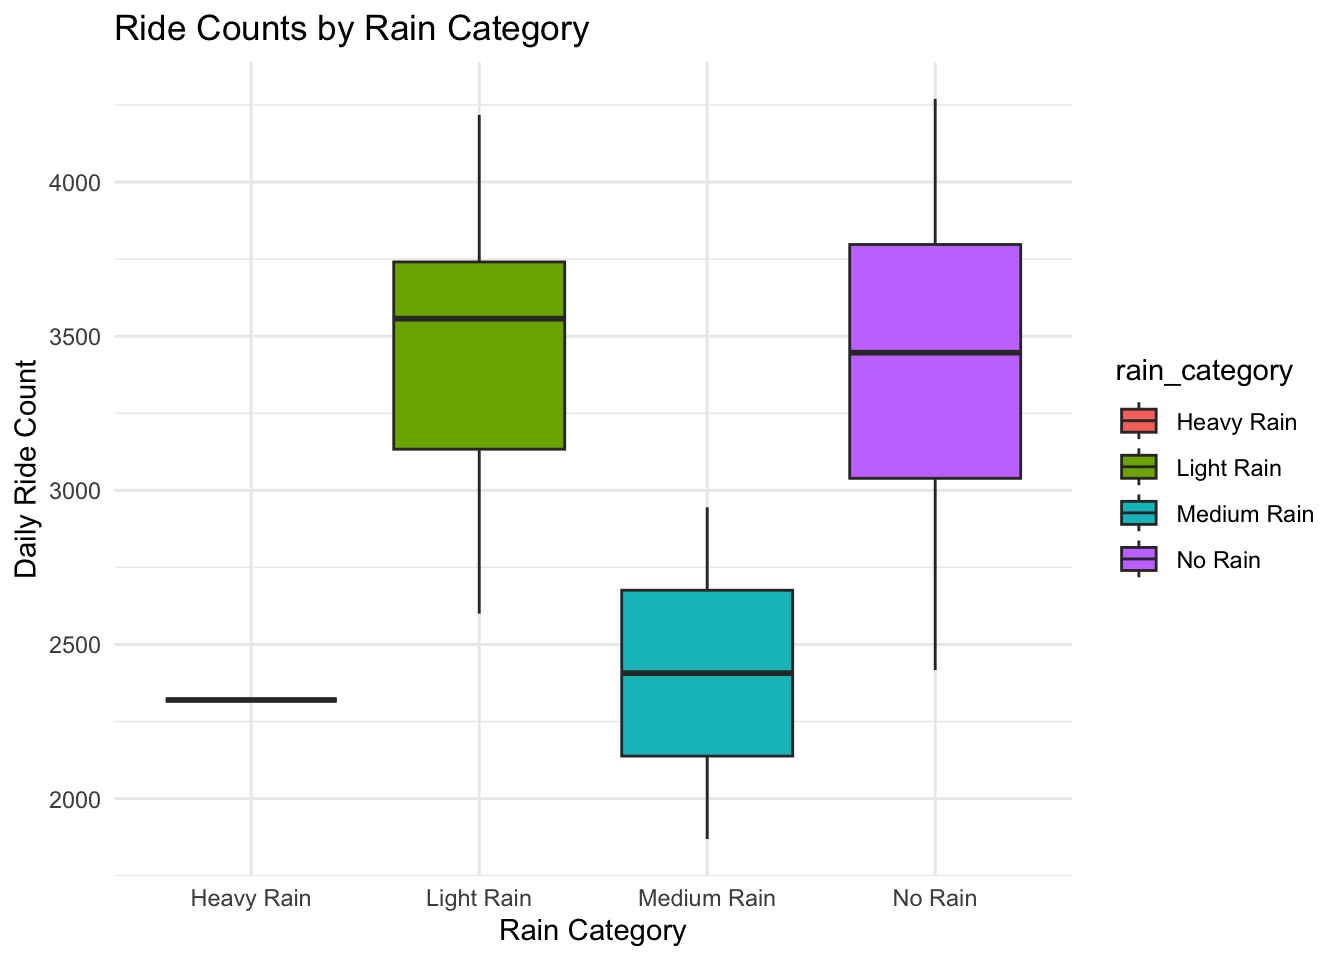
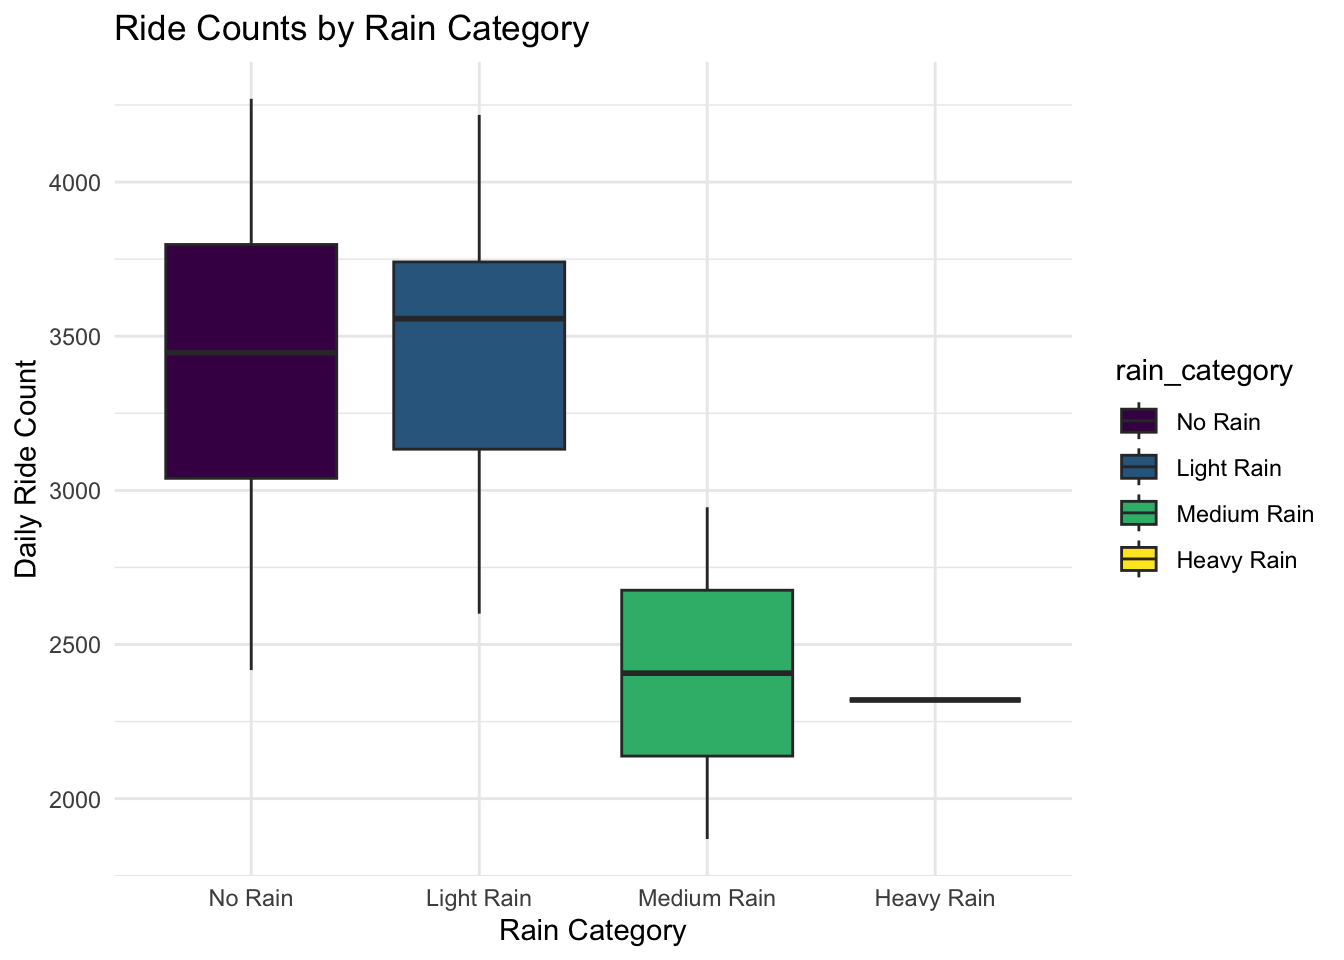
Eda finalize

diff --git a/EDA.html b/EDA.html
@@ -486,6 +486,13 @@ div.tocify {
     Proposal
   </a>
 </li>
+<li>
+  <a href="report.html">
+    <span class="fa fa-file-text-o"></span>
+     
+    Final Report
+  </a>
+</li>
       </ul>
       <ul class="nav navbar-nav navbar-right">
         <li>
@@ -1055,16 +1062,20 @@ temperatures.</p></li>
 </div>
 <div id="ride-count-vs-rain-category" class="section level2">
 <h2>7.2 Ride Count vs Rain Category</h2>
-<div class="sourceCode" id="cb10"><pre class="sourceCode r"><code class="sourceCode r"><span id="cb10-1"><a href="#cb10-1" tabindex="-1"></a>p_rain <span class="ot">&lt;-</span> bike <span class="sc">%&gt;%</span></span>
-<span id="cb10-2"><a href="#cb10-2" tabindex="-1"></a>  <span class="fu">group_by</span>(start_date, rain_category) <span class="sc">%&gt;%</span></span>
-<span id="cb10-3"><a href="#cb10-3" tabindex="-1"></a>  <span class="fu">summarise</span>(<span class="at">rides =</span> <span class="fu">n</span>(), <span class="at">.groups =</span> <span class="st">&quot;drop&quot;</span>) <span class="sc">%&gt;%</span></span>
-<span id="cb10-4"><a href="#cb10-4" tabindex="-1"></a>  <span class="fu">ggplot</span>(<span class="fu">aes</span>(rain_category, rides, <span class="at">fill =</span> rain_category)) <span class="sc">+</span></span>
-<span id="cb10-5"><a href="#cb10-5" tabindex="-1"></a>  <span class="fu">geom_boxplot</span>() <span class="sc">+</span></span>
-<span id="cb10-6"><a href="#cb10-6" tabindex="-1"></a>  <span class="fu">labs</span>(<span class="at">title =</span> <span class="st">&quot;Ride Counts by Rain Category&quot;</span>,</span>
-<span id="cb10-7"><a href="#cb10-7" tabindex="-1"></a>       <span class="at">x =</span> <span class="st">&quot;Rain Category&quot;</span>, <span class="at">y =</span> <span class="st">&quot;Daily Ride Count&quot;</span>) <span class="sc">+</span></span>
-<span id="cb10-8"><a href="#cb10-8" tabindex="-1"></a>  <span class="fu">theme_minimal</span>()</span>
-<span id="cb10-9"><a href="#cb10-9" tabindex="-1"></a></span>
-<span id="cb10-10"><a href="#cb10-10" tabindex="-1"></a>p_rain</span></code></pre></div>
+<div class="sourceCode" id="cb10"><pre class="sourceCode r"><code class="sourceCode r"><span id="cb10-1"><a href="#cb10-1" tabindex="-1"></a>bike <span class="ot">&lt;-</span> bike <span class="sc">%&gt;%</span></span>
+<span id="cb10-2"><a href="#cb10-2" tabindex="-1"></a>  <span class="fu">mutate</span>(<span class="at">rain_category =</span> <span class="fu">factor</span>(rain_category,</span>
+<span id="cb10-3"><a href="#cb10-3" tabindex="-1"></a>                                <span class="at">levels =</span> <span class="fu">c</span>(<span class="st">&quot;No Rain&quot;</span>, <span class="st">&quot;Light Rain&quot;</span>, <span class="st">&quot;Medium Rain&quot;</span>, <span class="st">&quot;Heavy Rain&quot;</span>),</span>
+<span id="cb10-4"><a href="#cb10-4" tabindex="-1"></a>                                <span class="at">ordered =</span> <span class="cn">TRUE</span>))</span>
+<span id="cb10-5"><a href="#cb10-5" tabindex="-1"></a>p_rain <span class="ot">&lt;-</span> bike <span class="sc">%&gt;%</span></span>
+<span id="cb10-6"><a href="#cb10-6" tabindex="-1"></a>  <span class="fu">group_by</span>(start_date, rain_category) <span class="sc">%&gt;%</span></span>
+<span id="cb10-7"><a href="#cb10-7" tabindex="-1"></a>  <span class="fu">summarise</span>(<span class="at">rides =</span> <span class="fu">n</span>(), <span class="at">.groups =</span> <span class="st">&quot;drop&quot;</span>) <span class="sc">%&gt;%</span></span>
+<span id="cb10-8"><a href="#cb10-8" tabindex="-1"></a>  <span class="fu">ggplot</span>(<span class="fu">aes</span>(rain_category, rides, <span class="at">fill =</span> rain_category)) <span class="sc">+</span></span>
+<span id="cb10-9"><a href="#cb10-9" tabindex="-1"></a>  <span class="fu">geom_boxplot</span>() <span class="sc">+</span></span>
+<span id="cb10-10"><a href="#cb10-10" tabindex="-1"></a>  <span class="fu">labs</span>(<span class="at">title =</span> <span class="st">&quot;Ride Counts by Rain Category&quot;</span>,</span>
+<span id="cb10-11"><a href="#cb10-11" tabindex="-1"></a>       <span class="at">x =</span> <span class="st">&quot;Rain Category&quot;</span>, <span class="at">y =</span> <span class="st">&quot;Daily Ride Count&quot;</span>) <span class="sc">+</span></span>
+<span id="cb10-12"><a href="#cb10-12" tabindex="-1"></a>  <span class="fu">theme_minimal</span>()</span>
+<span id="cb10-13"><a href="#cb10-13" tabindex="-1"></a></span>
+<span id="cb10-14"><a href="#cb10-14" tabindex="-1"></a>p_rain</span></code></pre></div>
 <p><img src="EDA_files/figure-html/unnamed-chunk-12-1.png" width="672" /></p>
 <p>This boxplot examines daily ride counts across four rain categories
 (Heavy Rain, Light Rain, Medium Rain, No Rain).</p>
@@ -1135,34 +1146,28 @@ the ride data. After that, we fit an ARIMA model to predict future ride
 volume.</p>
 <div id="model-fitting-and-prediction" class="section level2">
 <h2>9.1 Model Fitting and Prediction</h2>
-<div class="sourceCode" id="cb14"><pre class="sourceCode r"><code class="sourceCode r"><span id="cb14-1"><a href="#cb14-1" tabindex="-1"></a><span class="fu">library</span>(tseries)</span></code></pre></div>
-<pre><code>## 
-##     &#39;tseries&#39; version: 0.10-58
-## 
-##     &#39;tseries&#39; is a package for time series analysis and computational finance.
-## 
-##     See &#39;library(help=&quot;tseries&quot;)&#39; for details.</code></pre>
-<div class="sourceCode" id="cb16"><pre class="sourceCode r"><code class="sourceCode r"><span id="cb16-1"><a href="#cb16-1" tabindex="-1"></a>daily_rides <span class="ot">&lt;-</span> bike <span class="sc">%&gt;%</span></span>
-<span id="cb16-2"><a href="#cb16-2" tabindex="-1"></a>  <span class="fu">group_by</span>(start_date) <span class="sc">%&gt;%</span></span>
-<span id="cb16-3"><a href="#cb16-3" tabindex="-1"></a>  <span class="fu">summarise</span>(<span class="at">total_rides =</span> <span class="fu">n</span>(), <span class="at">.groups =</span> <span class="st">&quot;drop&quot;</span>)</span>
-<span id="cb16-4"><a href="#cb16-4" tabindex="-1"></a></span>
-<span id="cb16-5"><a href="#cb16-5" tabindex="-1"></a><span class="fu">library</span>(tsibble)</span>
-<span id="cb16-6"><a href="#cb16-6" tabindex="-1"></a><span class="fu">library</span>(fable)</span>
-<span id="cb16-7"><a href="#cb16-7" tabindex="-1"></a></span>
-<span id="cb16-8"><a href="#cb16-8" tabindex="-1"></a>ts_data <span class="ot">&lt;-</span> daily_rides <span class="sc">%&gt;%</span></span>
-<span id="cb16-9"><a href="#cb16-9" tabindex="-1"></a>  <span class="fu">as_tsibble</span>(<span class="at">index =</span> start_date)</span>
-<span id="cb16-10"><a href="#cb16-10" tabindex="-1"></a></span>
-<span id="cb16-11"><a href="#cb16-11" tabindex="-1"></a><span class="fu">autoplot</span>(ts_data, total_rides) <span class="sc">+</span></span>
-<span id="cb16-12"><a href="#cb16-12" tabindex="-1"></a>  <span class="fu">labs</span>(<span class="at">title =</span> <span class="st">&quot;Daily Ride Counts&quot;</span>,</span>
-<span id="cb16-13"><a href="#cb16-13" tabindex="-1"></a>       <span class="at">x =</span> <span class="st">&quot;Date&quot;</span>,</span>
-<span id="cb16-14"><a href="#cb16-14" tabindex="-1"></a>       <span class="at">y =</span> <span class="st">&quot;Number of Rides&quot;</span>) <span class="sc">+</span></span>
-<span id="cb16-15"><a href="#cb16-15" tabindex="-1"></a>  <span class="fu">geom_line</span>(<span class="at">linewidth =</span> <span class="fl">1.2</span>, <span class="at">color =</span> <span class="st">&quot;skyblue&quot;</span>) <span class="sc">+</span></span>
-<span id="cb16-16"><a href="#cb16-16" tabindex="-1"></a>  <span class="fu">theme_minimal</span>() </span></code></pre></div>
+<div class="sourceCode" id="cb14"><pre class="sourceCode r"><code class="sourceCode r"><span id="cb14-1"><a href="#cb14-1" tabindex="-1"></a><span class="fu">library</span>(tseries)</span>
+<span id="cb14-2"><a href="#cb14-2" tabindex="-1"></a>daily_rides <span class="ot">&lt;-</span> bike <span class="sc">%&gt;%</span></span>
+<span id="cb14-3"><a href="#cb14-3" tabindex="-1"></a>  <span class="fu">group_by</span>(start_date) <span class="sc">%&gt;%</span></span>
+<span id="cb14-4"><a href="#cb14-4" tabindex="-1"></a>  <span class="fu">summarise</span>(<span class="at">total_rides =</span> <span class="fu">n</span>(), <span class="at">.groups =</span> <span class="st">&quot;drop&quot;</span>)</span>
+<span id="cb14-5"><a href="#cb14-5" tabindex="-1"></a></span>
+<span id="cb14-6"><a href="#cb14-6" tabindex="-1"></a><span class="fu">library</span>(tsibble)</span>
+<span id="cb14-7"><a href="#cb14-7" tabindex="-1"></a><span class="fu">library</span>(fable)</span>
+<span id="cb14-8"><a href="#cb14-8" tabindex="-1"></a></span>
+<span id="cb14-9"><a href="#cb14-9" tabindex="-1"></a>ts_data <span class="ot">&lt;-</span> daily_rides <span class="sc">%&gt;%</span></span>
+<span id="cb14-10"><a href="#cb14-10" tabindex="-1"></a>  <span class="fu">as_tsibble</span>(<span class="at">index =</span> start_date)</span>
+<span id="cb14-11"><a href="#cb14-11" tabindex="-1"></a></span>
+<span id="cb14-12"><a href="#cb14-12" tabindex="-1"></a><span class="fu">autoplot</span>(ts_data, total_rides) <span class="sc">+</span></span>
+<span id="cb14-13"><a href="#cb14-13" tabindex="-1"></a>  <span class="fu">labs</span>(<span class="at">title =</span> <span class="st">&quot;Daily Ride Counts&quot;</span>,</span>
+<span id="cb14-14"><a href="#cb14-14" tabindex="-1"></a>       <span class="at">x =</span> <span class="st">&quot;Date&quot;</span>,</span>
+<span id="cb14-15"><a href="#cb14-15" tabindex="-1"></a>       <span class="at">y =</span> <span class="st">&quot;Number of Rides&quot;</span>) <span class="sc">+</span></span>
+<span id="cb14-16"><a href="#cb14-16" tabindex="-1"></a>  <span class="fu">geom_line</span>(<span class="at">linewidth =</span> <span class="fl">1.2</span>, <span class="at">color =</span> <span class="st">&quot;skyblue&quot;</span>) <span class="sc">+</span></span>
+<span id="cb14-17"><a href="#cb14-17" tabindex="-1"></a>  <span class="fu">theme_minimal</span>() </span></code></pre></div>
 <p><img src="EDA_files/figure-html/unnamed-chunk-15-1.png" width="672" /></p>
-<div class="sourceCode" id="cb17"><pre class="sourceCode r"><code class="sourceCode r"><span id="cb17-1"><a href="#cb17-1" tabindex="-1"></a>fit_arima <span class="ot">&lt;-</span> ts_data <span class="sc">%&gt;%</span></span>
-<span id="cb17-2"><a href="#cb17-2" tabindex="-1"></a>  <span class="fu">model</span>(<span class="fu">ARIMA</span>(total_rides))</span>
-<span id="cb17-3"><a href="#cb17-3" tabindex="-1"></a></span>
-<span id="cb17-4"><a href="#cb17-4" tabindex="-1"></a><span class="fu">report</span>(fit_arima)</span></code></pre></div>
+<div class="sourceCode" id="cb15"><pre class="sourceCode r"><code class="sourceCode r"><span id="cb15-1"><a href="#cb15-1" tabindex="-1"></a>fit_arima <span class="ot">&lt;-</span> ts_data <span class="sc">%&gt;%</span></span>
+<span id="cb15-2"><a href="#cb15-2" tabindex="-1"></a>  <span class="fu">model</span>(<span class="fu">ARIMA</span>(total_rides))</span>
+<span id="cb15-3"><a href="#cb15-3" tabindex="-1"></a></span>
+<span id="cb15-4"><a href="#cb15-4" tabindex="-1"></a><span class="fu">report</span>(fit_arima)</span></code></pre></div>
 <pre><code>## Series: total_rides 
 ## Model: ARIMA(0,1,1)(1,0,0)[7] 
 ## 
@@ -1173,30 +1178,47 @@ volume.</p>
 ## 
 ## sigma^2 estimated as 159701:  log likelihood=-214.82
 ## AIC=435.64   AICc=436.6   BIC=439.74</code></pre>
-<div class="sourceCode" id="cb19"><pre class="sourceCode r"><code class="sourceCode r"><span id="cb19-1"><a href="#cb19-1" tabindex="-1"></a>fc <span class="ot">&lt;-</span> fit_arima <span class="sc">%&gt;%</span> <span class="fu">forecast</span>(<span class="at">h =</span> <span class="dv">7</span>)</span>
-<span id="cb19-2"><a href="#cb19-2" tabindex="-1"></a></span>
-<span id="cb19-3"><a href="#cb19-3" tabindex="-1"></a><span class="fu">autoplot</span>(fc, ts_data) <span class="sc">+</span></span>
-<span id="cb19-4"><a href="#cb19-4" tabindex="-1"></a>  <span class="fu">labs</span>(<span class="at">title =</span> <span class="st">&quot;ARIMA Forecast of Daily Rides&quot;</span>,</span>
-<span id="cb19-5"><a href="#cb19-5" tabindex="-1"></a>       <span class="at">x =</span> <span class="st">&quot;Date&quot;</span>,</span>
-<span id="cb19-6"><a href="#cb19-6" tabindex="-1"></a>       <span class="at">y =</span> <span class="st">&quot;Number of Rides&quot;</span>) <span class="sc">+</span></span>
-<span id="cb19-7"><a href="#cb19-7" tabindex="-1"></a>  <span class="fu">theme_minimal</span>()</span></code></pre></div>
+<p>This ARIMA(0,1,1)(1,0,0)[7] model (a seasonal ARIMA with weekly
+seasonality, given the [7] parameter) provides a reasonable fit for the
+daily ride count time series, as reflected by the key metrics:</p>
+<ul>
+<li><p>The AIC (435.64) and BIC (439.74) are consistent with a
+parsimonious model that balances fit and complexity.</p></li>
+<li><p>The significant seasonal AR term (sar1 = 0.4685, s.e. = 0.2006)
+captures the weekly cyclicality in ride demand, which aligns with the
+visible fluctuations in the time series plot (e.g., recurring
+peaks/troughs across the September dates).</p></li>
+<li><p>The MA(1) term (ma1 = -0.4548) helps account for short-term,
+non-seasonal noise in daily ride counts, which is visible in the small,
+day-to-day variations in the line graph.</p></li>
+</ul>
+<div class="sourceCode" id="cb17"><pre class="sourceCode r"><code class="sourceCode r"><span id="cb17-1"><a href="#cb17-1" tabindex="-1"></a>fc <span class="ot">&lt;-</span> fit_arima <span class="sc">%&gt;%</span> <span class="fu">forecast</span>(<span class="at">h =</span> <span class="dv">7</span>)</span>
+<span id="cb17-2"><a href="#cb17-2" tabindex="-1"></a></span>
+<span id="cb17-3"><a href="#cb17-3" tabindex="-1"></a><span class="fu">autoplot</span>(fc, ts_data) <span class="sc">+</span></span>
+<span id="cb17-4"><a href="#cb17-4" tabindex="-1"></a>  <span class="fu">labs</span>(<span class="at">title =</span> <span class="st">&quot;ARIMA Forecast of Daily Rides&quot;</span>,</span>
+<span id="cb17-5"><a href="#cb17-5" tabindex="-1"></a>       <span class="at">x =</span> <span class="st">&quot;Date&quot;</span>,</span>
+<span id="cb17-6"><a href="#cb17-6" tabindex="-1"></a>       <span class="at">y =</span> <span class="st">&quot;Number of Rides&quot;</span>) <span class="sc">+</span></span>
+<span id="cb17-7"><a href="#cb17-7" tabindex="-1"></a>  <span class="fu">theme_minimal</span>()</span></code></pre></div>
 <p><img src="EDA_files/figure-html/unnamed-chunk-17-1.png" width="672" /></p>
+<p>Overall, the model effectively captures both the upward trend and
+weekly seasonality in the data, making it a useful tool for short-term
+forecasting of daily ride demand.</p>
 <hr />
 </div>
 <div id="decomposition" class="section level2">
 <h2>9.2 Decomposition</h2>
-<div class="sourceCode" id="cb20"><pre class="sourceCode r"><code class="sourceCode r"><span id="cb20-1"><a href="#cb20-1" tabindex="-1"></a>fit_ets <span class="ot">&lt;-</span> ts_data <span class="sc">%&gt;%</span> <span class="fu">model</span>(<span class="fu">ETS</span>(total_rides))</span>
-<span id="cb20-2"><a href="#cb20-2" tabindex="-1"></a></span>
-<span id="cb20-3"><a href="#cb20-3" tabindex="-1"></a>components_plot <span class="ot">&lt;-</span> <span class="fu">autoplot</span>(<span class="fu">components</span>(fit_ets)) <span class="sc">+</span></span>
-<span id="cb20-4"><a href="#cb20-4" tabindex="-1"></a>  <span class="fu">labs</span>(</span>
-<span id="cb20-5"><a href="#cb20-5" tabindex="-1"></a>    <span class="at">title =</span> <span class="st">&quot;ETS Decomposition of Daily Ride Counts&quot;</span>,</span>
-<span id="cb20-6"><a href="#cb20-6" tabindex="-1"></a>    <span class="at">subtitle =</span> <span class="st">&quot;Using Exponential Smoothing (suitable for short, non-periodic series)&quot;</span>,</span>
-<span id="cb20-7"><a href="#cb20-7" tabindex="-1"></a>    <span class="at">x =</span> <span class="st">&quot;Date&quot;</span>,</span>
-<span id="cb20-8"><a href="#cb20-8" tabindex="-1"></a>    <span class="at">y =</span> <span class="st">&quot;Value&quot;</span></span>
-<span id="cb20-9"><a href="#cb20-9" tabindex="-1"></a>  ) <span class="sc">+</span></span>
-<span id="cb20-10"><a href="#cb20-10" tabindex="-1"></a>  <span class="fu">theme_minimal</span>()</span>
-<span id="cb20-11"><a href="#cb20-11" tabindex="-1"></a></span>
-<span id="cb20-12"><a href="#cb20-12" tabindex="-1"></a>components_plot</span></code></pre></div>
+<div class="sourceCode" id="cb18"><pre class="sourceCode r"><code class="sourceCode r"><span id="cb18-1"><a href="#cb18-1" tabindex="-1"></a>fit_ets <span class="ot">&lt;-</span> ts_data <span class="sc">%&gt;%</span> <span class="fu">model</span>(<span class="fu">ETS</span>(total_rides))</span>
+<span id="cb18-2"><a href="#cb18-2" tabindex="-1"></a></span>
+<span id="cb18-3"><a href="#cb18-3" tabindex="-1"></a>components_plot <span class="ot">&lt;-</span> <span class="fu">autoplot</span>(<span class="fu">components</span>(fit_ets)) <span class="sc">+</span></span>
+<span id="cb18-4"><a href="#cb18-4" tabindex="-1"></a>  <span class="fu">labs</span>(</span>
+<span id="cb18-5"><a href="#cb18-5" tabindex="-1"></a>    <span class="at">title =</span> <span class="st">&quot;ETS Decomposition of Daily Ride Counts&quot;</span>,</span>
+<span id="cb18-6"><a href="#cb18-6" tabindex="-1"></a>    <span class="at">subtitle =</span> <span class="st">&quot;Using Exponential Smoothing (suitable for short, non-periodic series)&quot;</span>,</span>
+<span id="cb18-7"><a href="#cb18-7" tabindex="-1"></a>    <span class="at">x =</span> <span class="st">&quot;Date&quot;</span>,</span>
+<span id="cb18-8"><a href="#cb18-8" tabindex="-1"></a>    <span class="at">y =</span> <span class="st">&quot;Value&quot;</span></span>
+<span id="cb18-9"><a href="#cb18-9" tabindex="-1"></a>  ) <span class="sc">+</span></span>
+<span id="cb18-10"><a href="#cb18-10" tabindex="-1"></a>  <span class="fu">theme_minimal</span>()</span>
+<span id="cb18-11"><a href="#cb18-11" tabindex="-1"></a></span>
+<span id="cb18-12"><a href="#cb18-12" tabindex="-1"></a>components_plot</span></code></pre></div>
 <p><img src="EDA_files/figure-html/unnamed-chunk-18-1.png" width="672" /></p>
 <p>This ETS decomposition chart breaks down daily ride counts into three
 components:</p>
